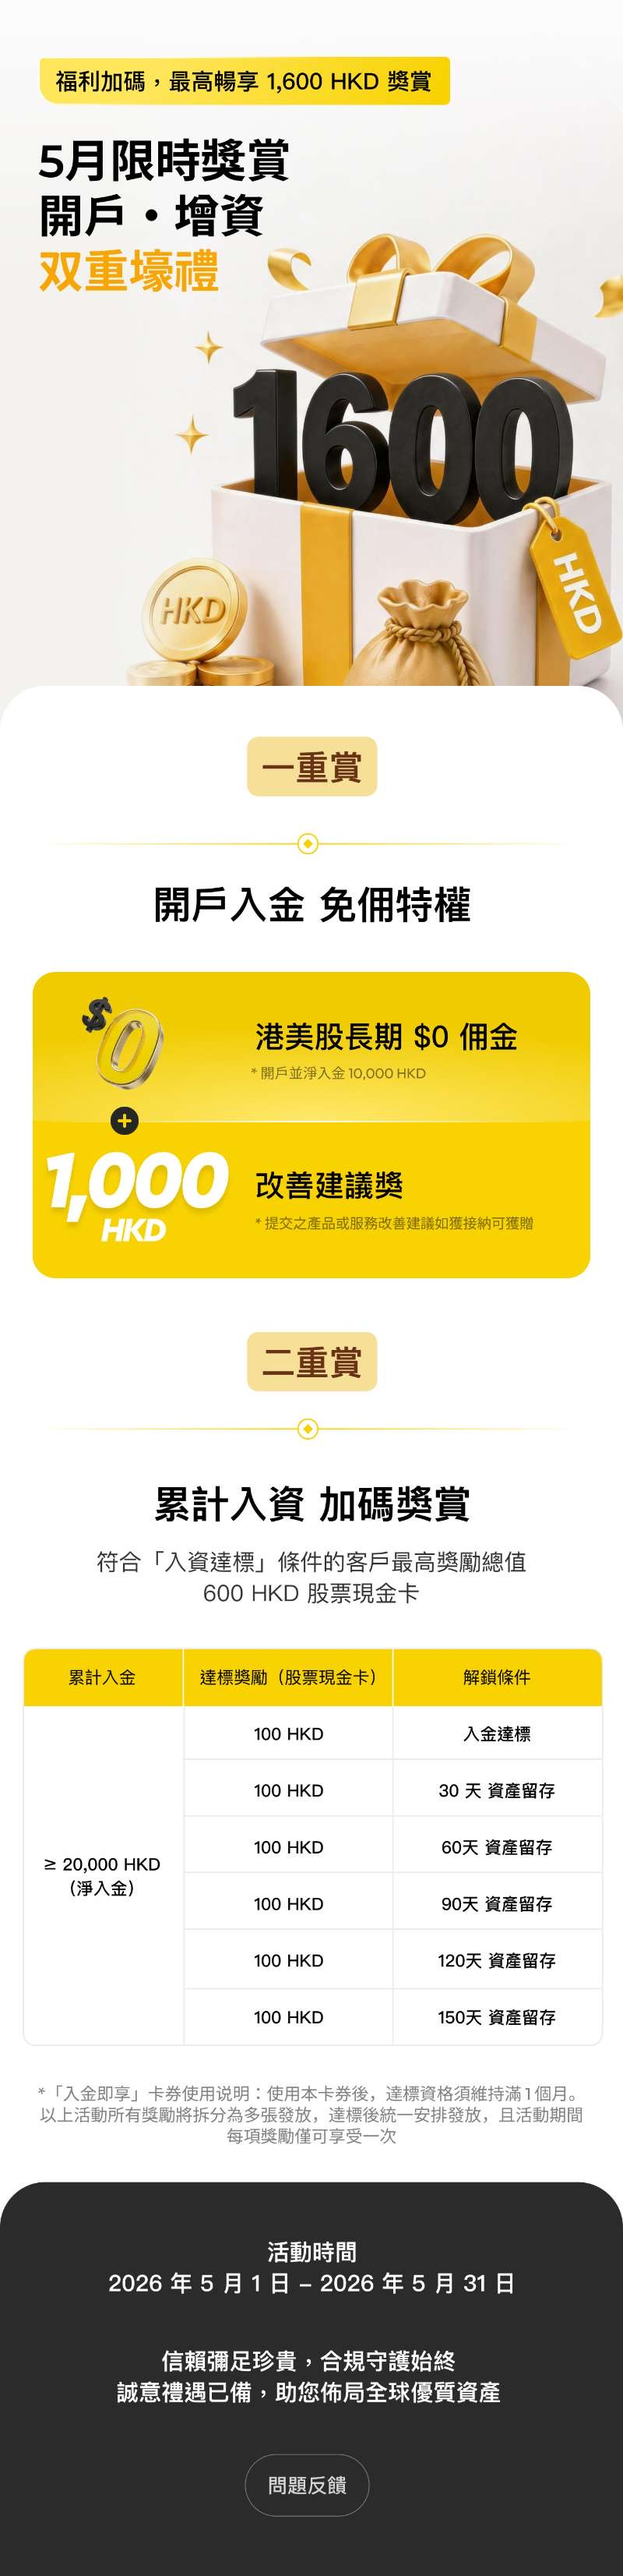
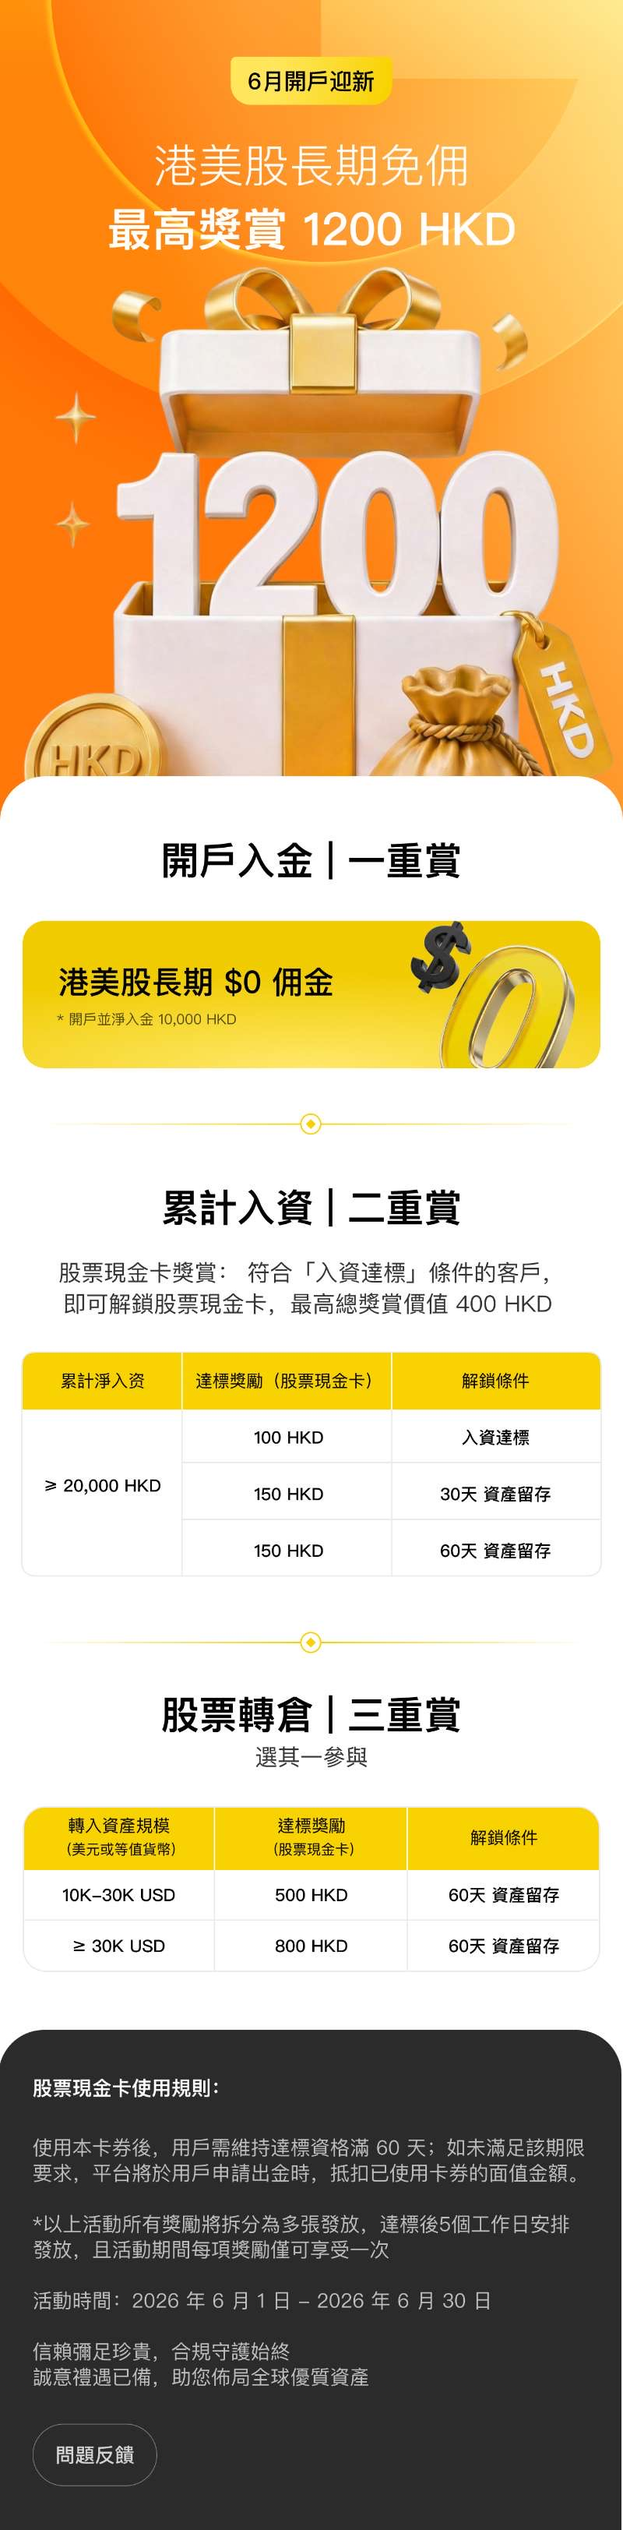
update 6 moth

diff --git a/index.html b/index.html
@@ -178,7 +178,7 @@
       </div>
       <div class="inline-flex items-center gap-2 bg-yellow-400 text-yellow-900 text-xs font-semibold px-3 py-1 rounded-full badge-pulse">
         <span class="w-1.5 h-1.5 rounded-full bg-yellow-700 opacity-70 inline-block"></span>
-        2026年5月活动进行中
+        2026年6月活动进行中
       </div>
     </div>
   </div>
